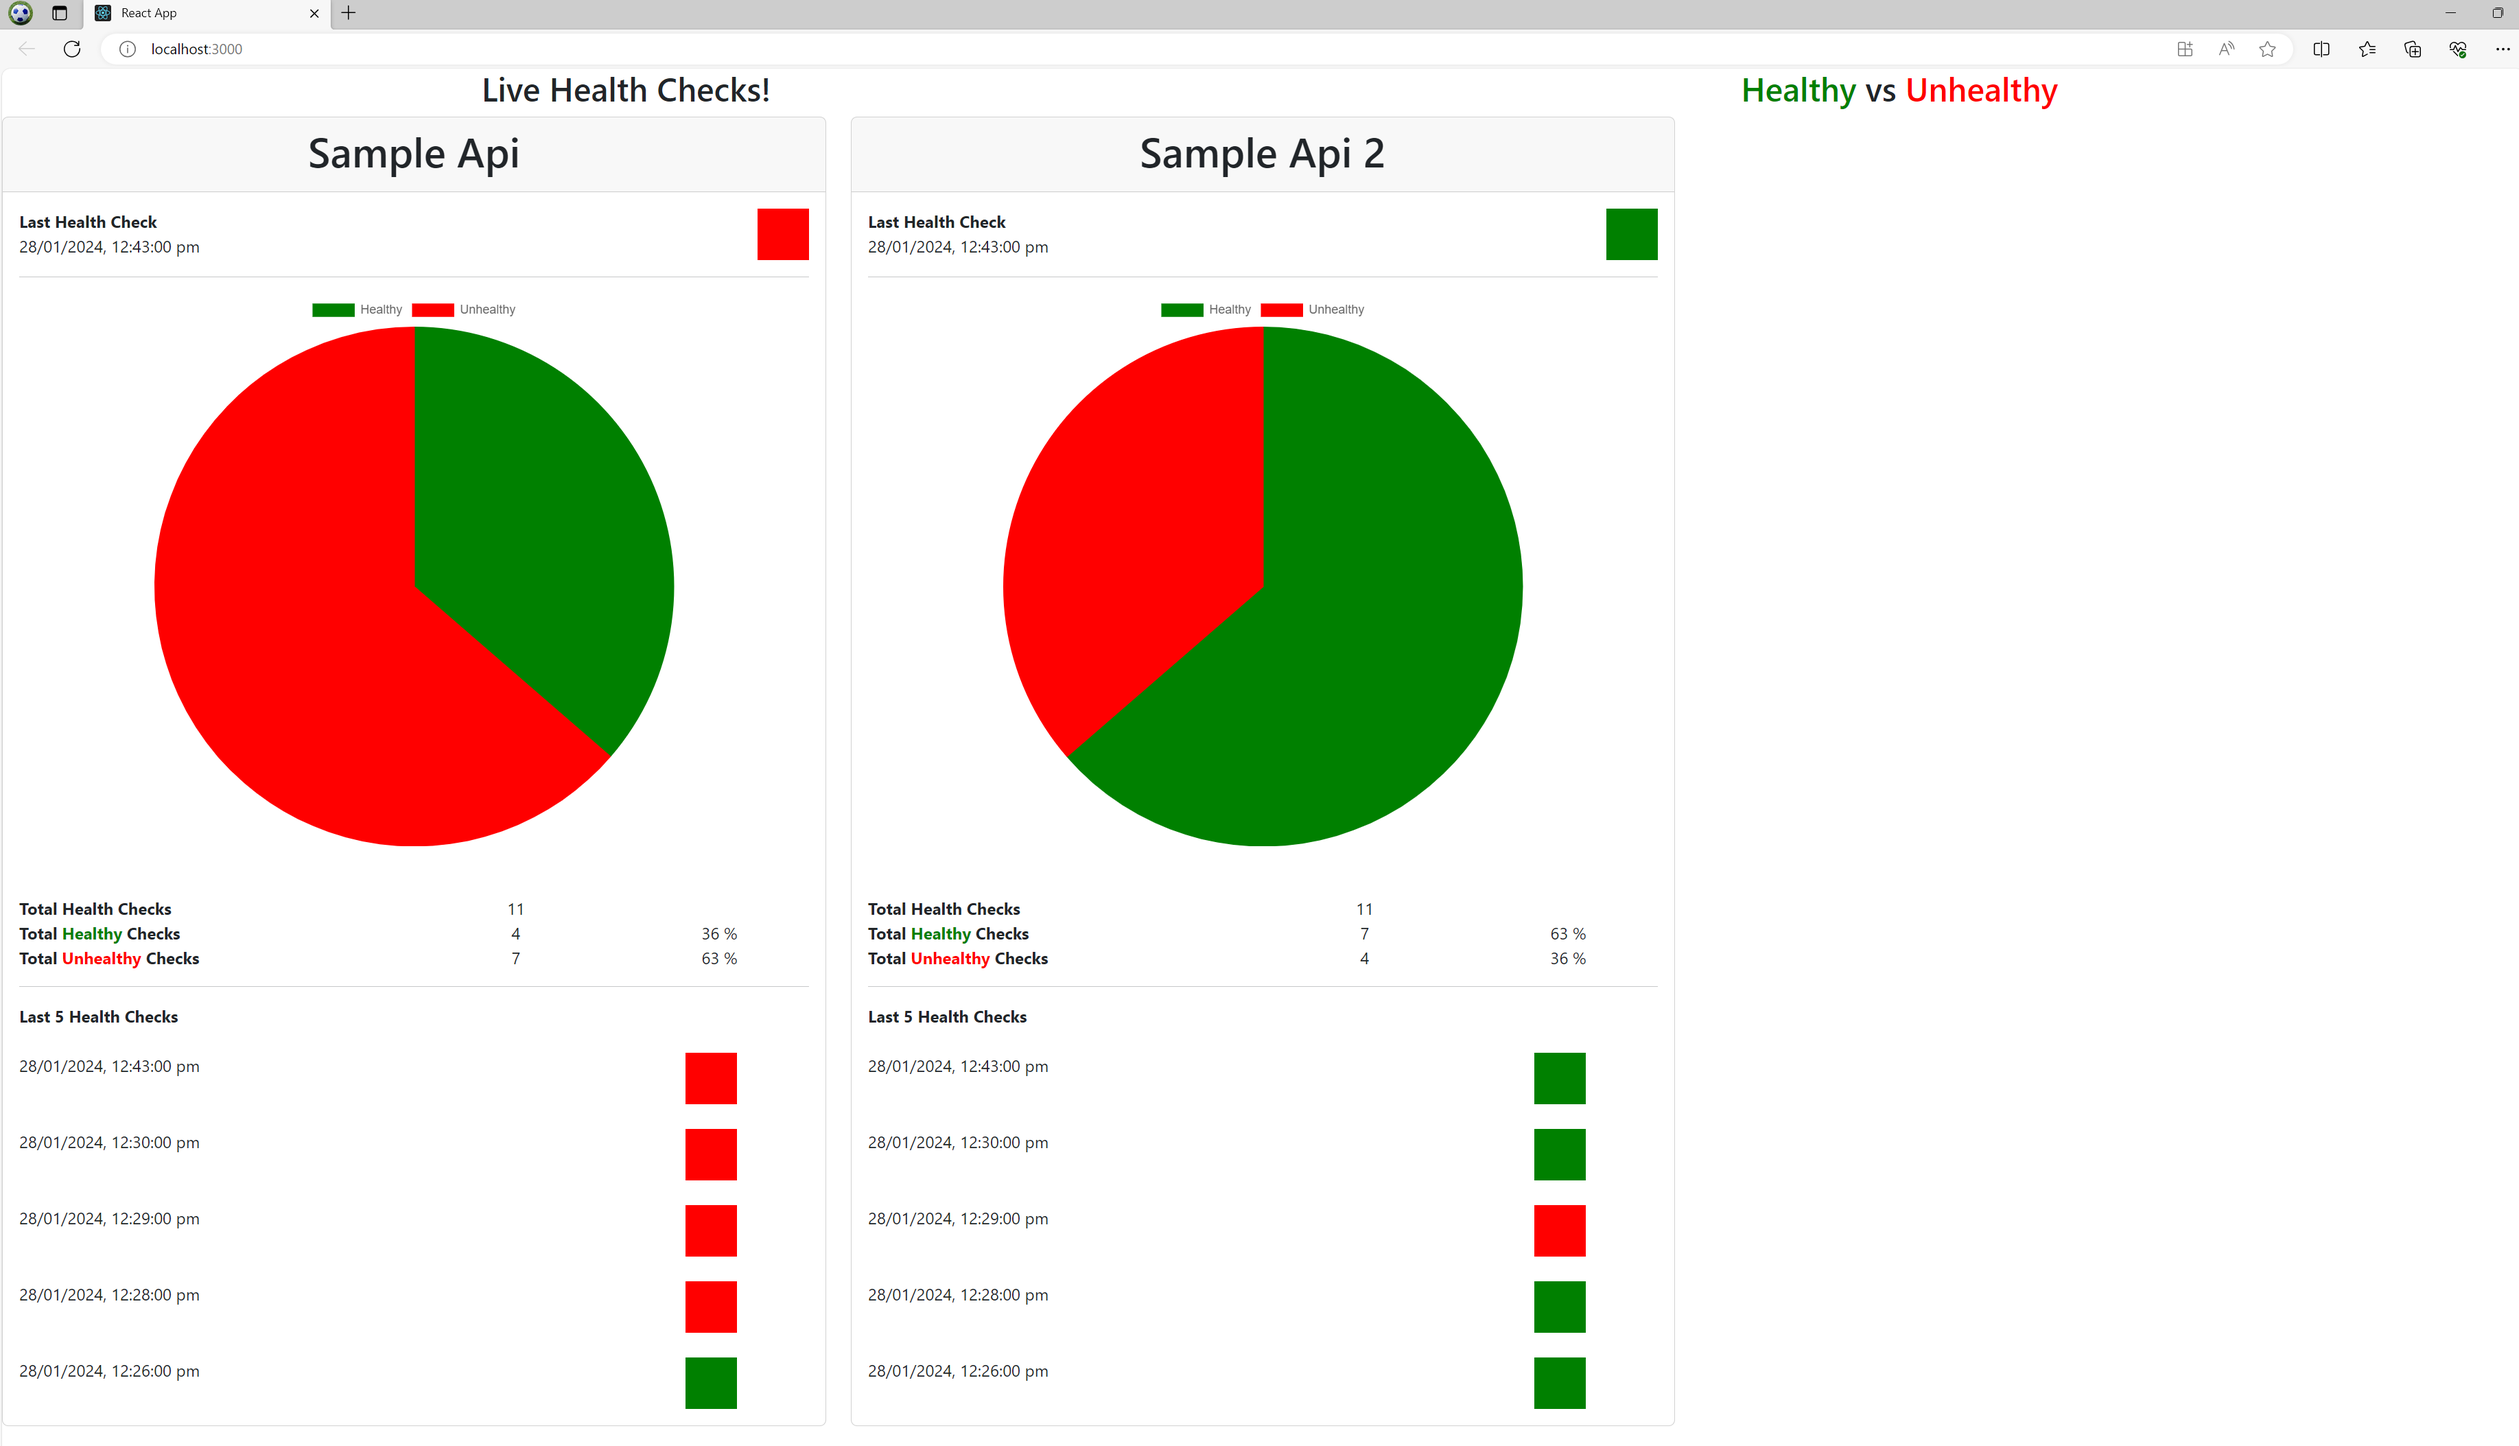
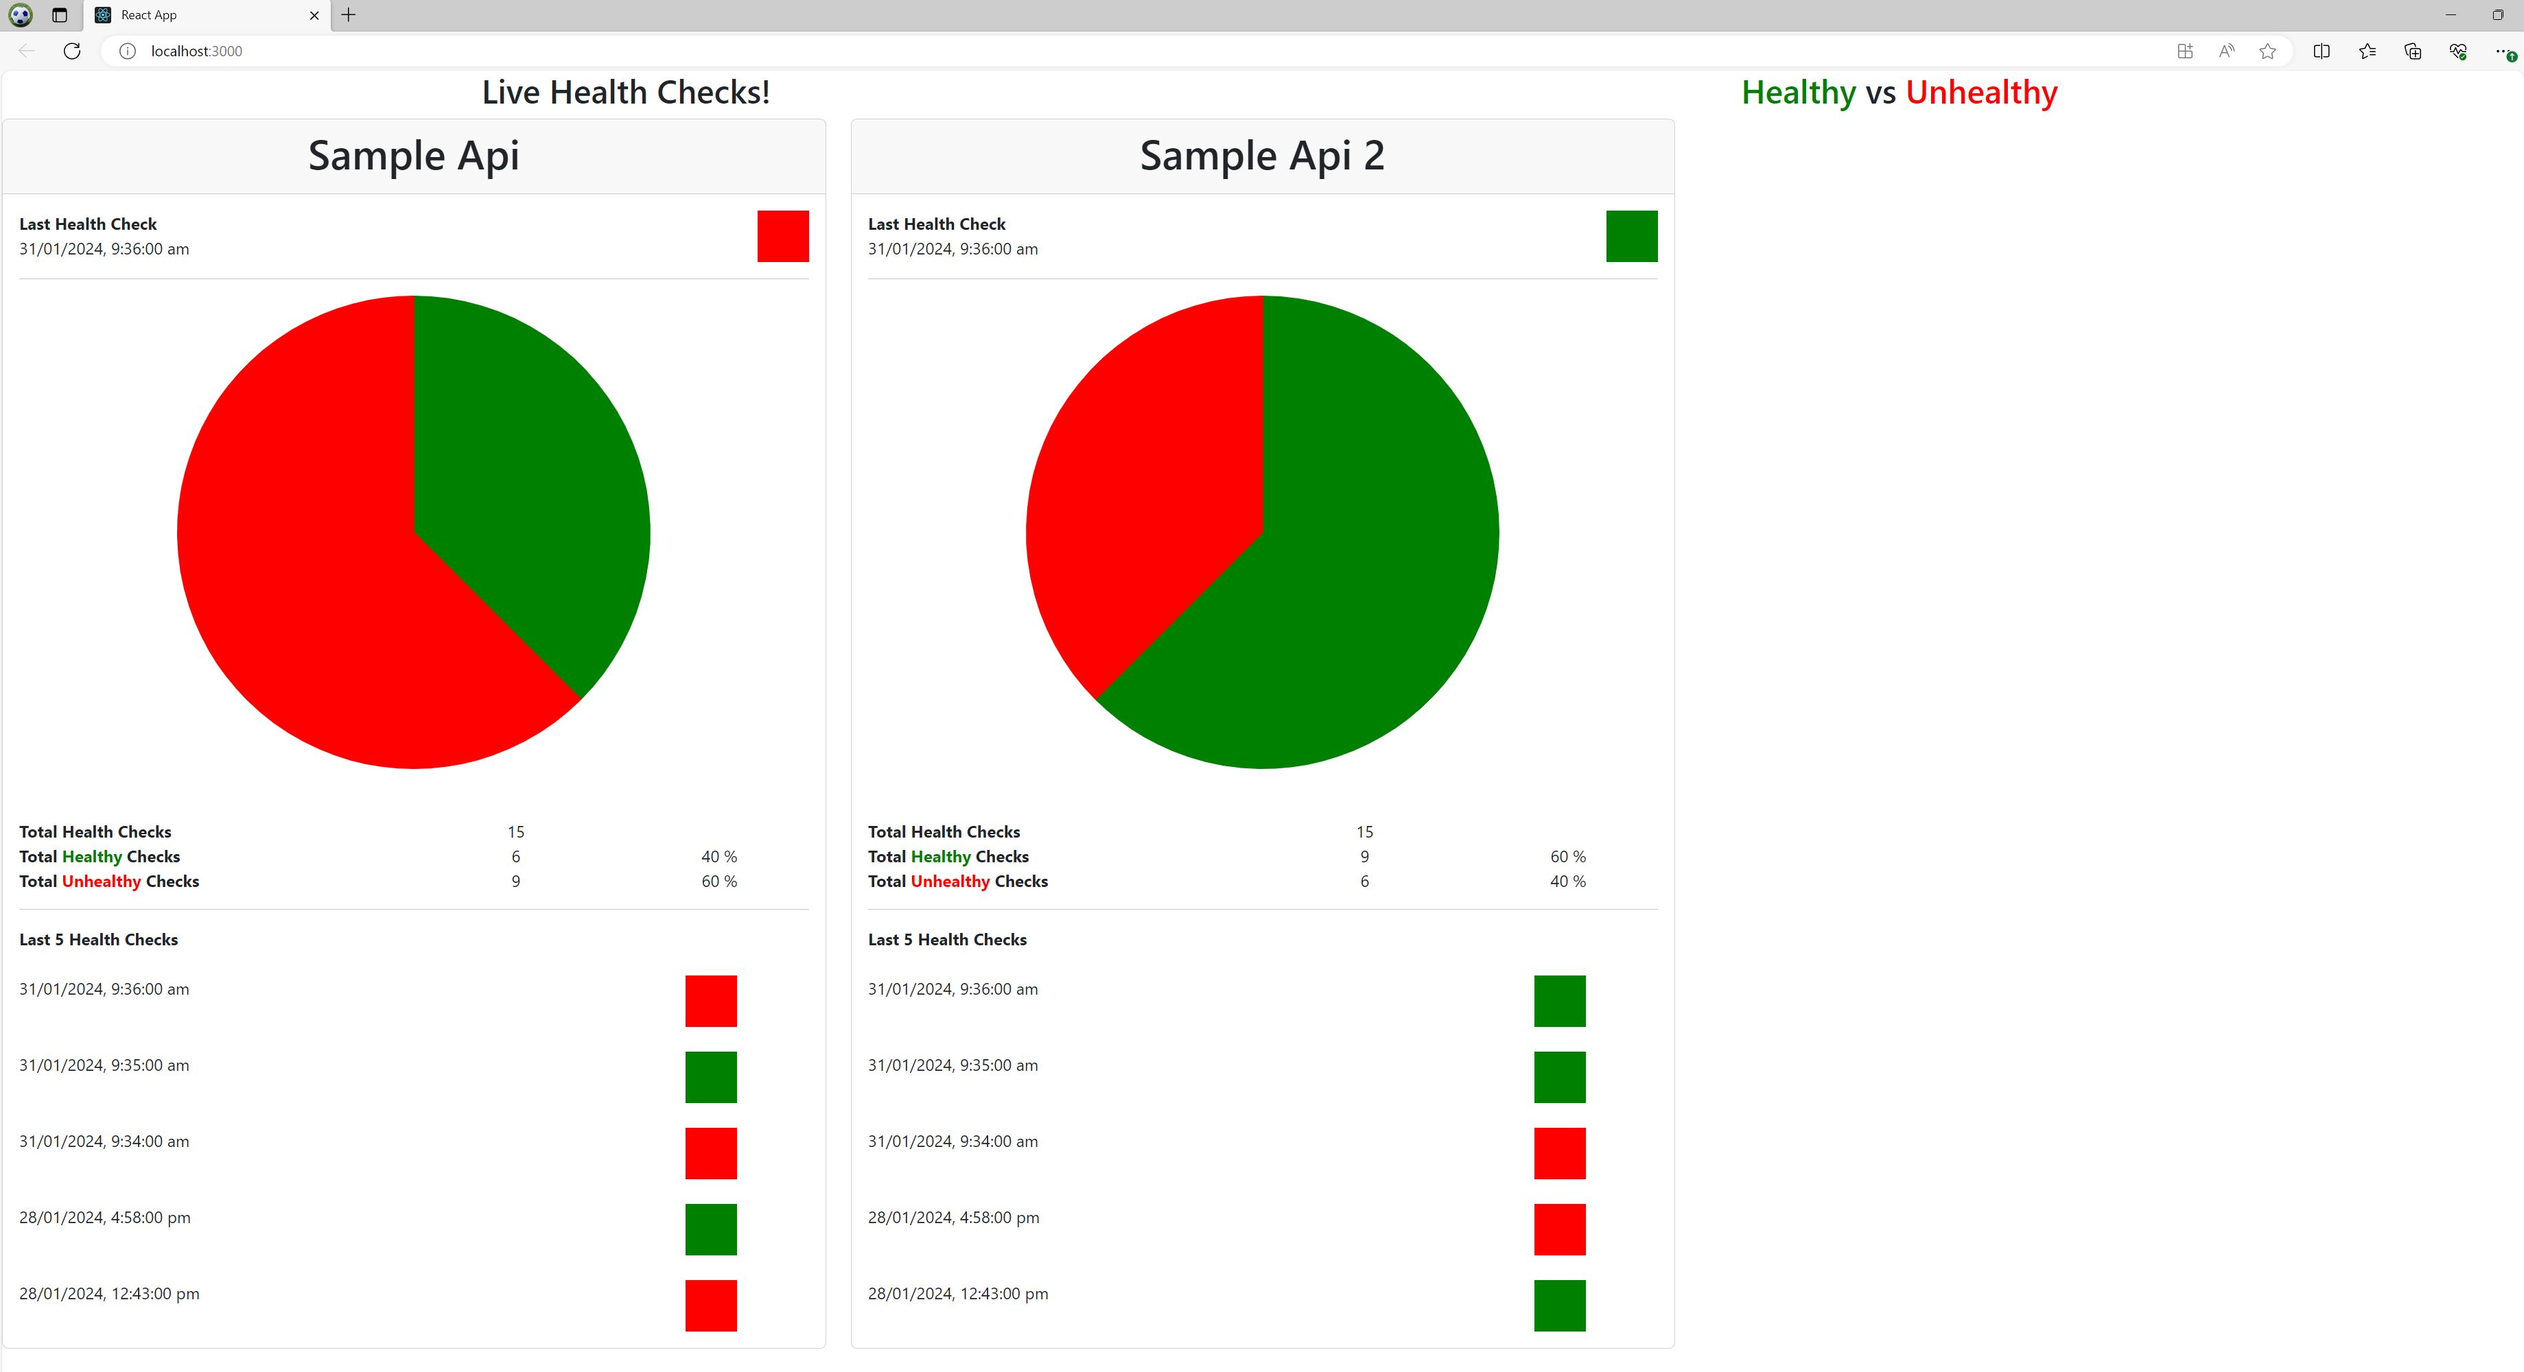
created lasthealth check effect, in react app. minor refactoring.

diff --git a/react-livehealthchecks-ui/src/Components/ApiWidget.tsx b/react-livehealthchecks-ui/src/Components/ApiWidget.tsx
@@ -1,15 +1,15 @@
 import React, { useEffect, useState } from 'react';
-import { Chart as ChartJS, ArcElement, Tooltip, Legend } from 'chart.js';
+import { Chart as ChartJS, ArcElement, Tooltip } from 'chart.js';
 import { Pie } from 'react-chartjs-2';
 import { ApiWidgetProperties, HealthCheck } from '../Models/Models';
 
 const ApiWidget: React.FC<ApiWidgetProperties> = (props) => {
-  ChartJS.register(ArcElement, Tooltip, Legend); 
+  ChartJS.register(ArcElement, Tooltip); 
 
   let myHealthChecksRepository = props.MyHealthChecksRepository!;
   let myServerService = props.MyServerService!;
 
-  let [timestamp, setTimestamp] = useState(""); 
+  let [timestamp, setTimestamp] = useState(''); 
   let [status, setStatus] = useState('');
 
   let dbResult = myHealthChecksRepository.getDbResult(props.ReceiveMethod);
@@ -23,9 +23,34 @@ const ApiWidget: React.FC<ApiWidgetProperties> = (props) => {
   let [healthyPercent, setHealthyPercent] = useState(0);
   let [unhealthyPercent, setUnhealthyPercent] = useState(0);
   
+  let [lastHealthCheck, setLastHealthCheck] = useState(new HealthCheck());
+
   let dbHealthChecks = myHealthChecksRepository.getDbHealthChecks(props.ReceiveMethod);
 
   let [healthChecks, setHealthChecks] = useState(dbHealthChecks);  
+
+  useEffect(() => {
+    let dbResult = myHealthChecksRepository.getDbResult(props.ReceiveMethod);
+
+    if (dbResult == null) return;
+
+    let healthy = dbResult[0];
+    let unHealthy = dbResult[1];
+    
+    if (lastHealthCheck.Status == 2) {
+      healthy = healthy + 1;
+      setStatus('green');
+    }
+    else if (lastHealthCheck.Status == 1) {
+      unHealthy = unHealthy + 1;
+      setStatus('red');
+    }
+    else {
+      setStatus('');
+    }
+
+    setResult([healthy, unHealthy]);
+  }, [lastHealthCheck]);
 
   useEffect(()=>{
     let last = healthChecks.reverse().take(5);
@@ -44,38 +69,23 @@ const ApiWidget: React.FC<ApiWidgetProperties> = (props) => {
     setTotalUnhealthy(totalUnhealthy);
     setHealthyPercent(healthyPercent);
     setUnhealthyPercent(unhealthyPercent);
-  },[healthChecks])   
+  }, [healthChecks]);   
 
   myServerService.subscribe(props.ReceiveMethod, (report: any) => {
     console.log(report);
-    setTimestamp(new Date().toLocaleString());
+    var timestamp = new Date().toLocaleString();
+    setTimestamp(timestamp);
 
     var r = JSON.parse(report);
-
-    let dbResult = myHealthChecksRepository.getDbResult(props.ReceiveMethod);
-
-    if (dbResult == null) return;
-
-    let healthy = dbResult[0];
-    let unHealthy = dbResult[1];
-    
-    if (r["Status"] == 2) {
-      healthy = healthy + 1;
-      setStatus('green');
-    }
-    else {
-      unHealthy = unHealthy + 1;
-      setStatus('red');
-    }
-
-    setResult([healthy, unHealthy]);
 
     var healthCheck = new HealthCheck();
 
     healthCheck.Api = props.ApiName;
     healthCheck.ReceiveMethod = props.ReceiveMethod;
-    healthCheck.ReceiveTimeStamp = new Date().toLocaleString();
+    healthCheck.ReceiveTimeStamp = timestamp;
     healthCheck.Status = r["Status"] == 2 ? 2 : 1;
+
+    setLastHealthCheck(healthCheck);
 
     myHealthChecksRepository.saveHealthChecks(props.ReceiveMethod, healthCheck);
 
@@ -120,7 +130,7 @@ const ApiWidget: React.FC<ApiWidgetProperties> = (props) => {
             <hr />
             <div className="row">
                 <div className="col-12" style={{textAlign:'center'}}>
-                    <div style={{width: '70%', margin: '0 auto'}}>
+                    <div style={{width: '60%', margin: '0 auto'}}>
                         <Pie data={data} />
                     </div>                    
                 </div>
